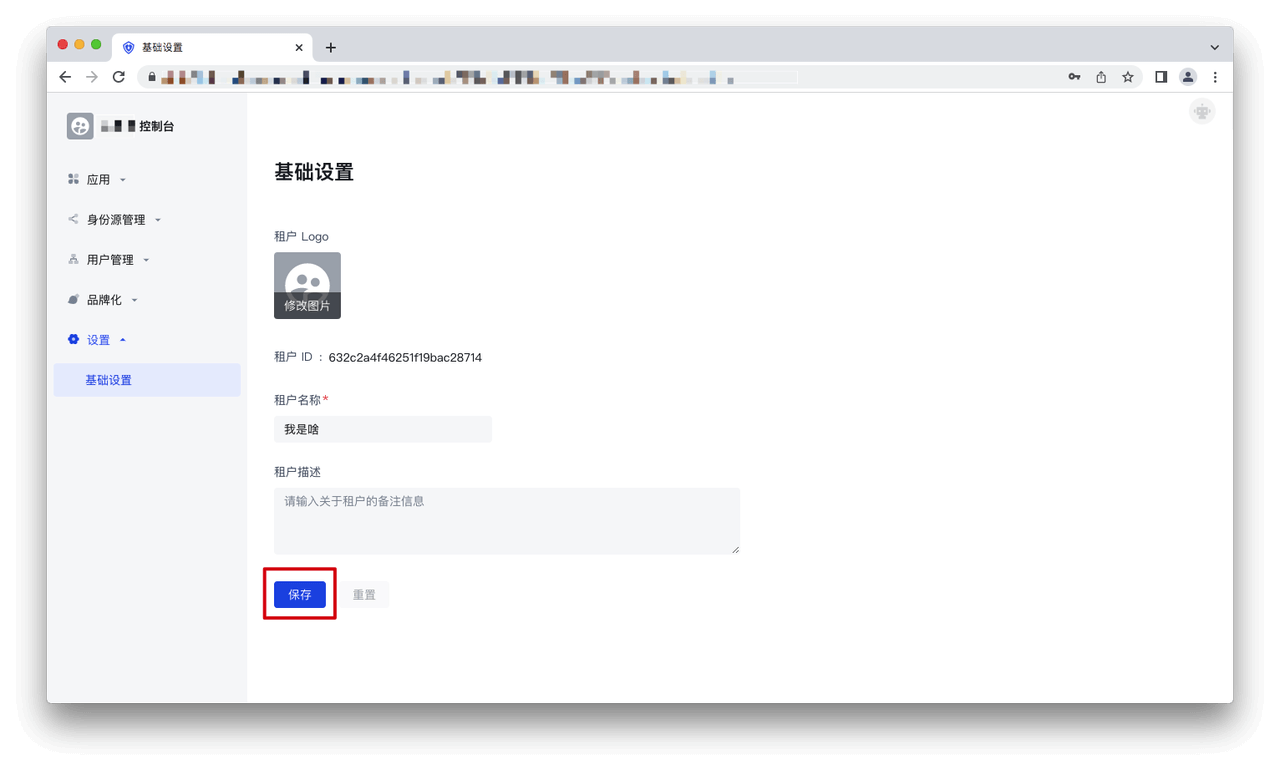
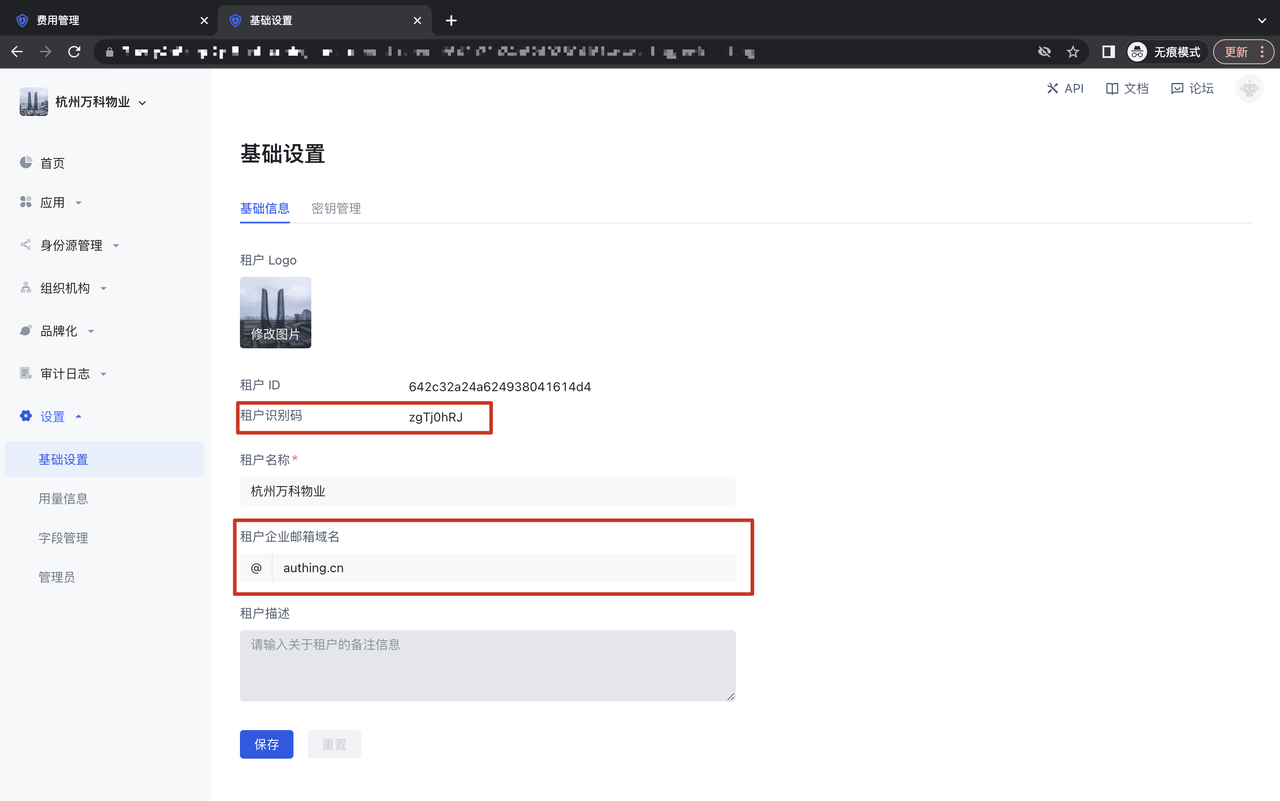
feat:integration:新增 Bytebase 文档

Changed region(s): [[0.0, 0.0, 1.0, 0.9662], [0.1562, 0.1558, 0.5938, 0.8727]]

diff --git a/docs/tenant-console/tenant-branding.md b/docs/tenant-console/tenant-branding.md
@@ -4,16 +4,16 @@
 
 ## 全局登录配置-样式配置
 
-步骤1 在租户控制台-品牌化-全局登录配置中，可以查看品牌化登录页面：
+**步骤1** 在租户控制台-品牌化-全局登录配置中，可以查看品牌化登录页面：
 
 ![](./images/tenant-branding-1.png)
 
-步骤2 预览区域左侧可以分别切换语言/设备类型：
+**步骤2** 预览区域左侧可以分别切换语言/设备类型：
 
 ![](./images/tenant-branding-2.png)
 ![](./images/tenant-branding-3.png)
 
-步骤3 预览区域右侧是配置区，可以进行品牌化配置，分为「整体样式」和「常规登录」两个 tab。在「整体样式」下：
+**步骤3** 预览区域右侧是配置区，可以进行品牌化配置，分为「整体样式」和「常规登录」两个 tab。在「整体样式」下：
 （1）设置背景
 对于网页端应用，可以在「自定义背景」设置登录框背景，在「纯色背景」模式下可以修改背景颜色，在「图片背景」模式下可以上传背景图片，下图以修改纯色背景为例，展示了修改背景颜色后的效果：
 
@@ -39,7 +39,7 @@
 
 ![](./images/tenant-branding-8.png)
 
-步骤4 预览区域右侧是配置区，可以进行品牌化配置，分为「整体样式」和「常规登录」两个 tab。在「常规登录」下：
+**步骤4** 预览区域右侧是配置区，可以进行品牌化配置，分为「整体样式」和「常规登录」两个 tab。在「常规登录」下：
 （1）可以配置「忘记密码」是否展示；
 （2）可以在「企业账号登录」配置企业身份源是否展示；
 （3）可以在「社交账号登录」配置社会化身份源是否展示。

diff --git a/docs/integration/bytebase/README.md b/docs/integration/bytebase/README.md
@@ -1,0 +1,29 @@
+---
+{
+  title: 'Bytebase 对接 - 单点登录配置 - 应用身份服务 - Authing 身份云',
+  description: 'Bytebase 是 DevOps 团队的数据库 CI/CD 工具。 它提供了一个协作工作区来帮助开发人员和 DBA 管理数据库开发生命周期。',
+  meta:
+    [
+      {
+        name: 'keywords',
+        content: 'Bytebase, DevOps, CI/CD, SSO, 应用身份服务, 单点登录配置, Authing身份云',
+      },
+    ],
+  noSidebar: true,
+  noToc: true,
+  noFeedback: true,
+  fullWidthPage: true,
+  bannerTitle: '使用 {{$localeConfig.brandName}} 登录 Bytebase',
+  steps:
+    [
+      { title: '配置 Bytebase 外部链接', subTitle: '在 Bytebase 中配置系统外部链接' },
+      {
+        title: '在 {{$localeConfig.brandName}} 中创建应用',
+        subTitle: '从 {{$localeConfig.brandName}} 应用市场中获取并创建应用',
+      },
+      { title: '配置 Bytebase SSO', subTitle: '在 Bytebase 中配置 OIDC' }
+    ],
+}
+---
+
+<IntegrationDetail/>

diff --git a/docs/integration/bytebase/1.md b/docs/integration/bytebase/1.md
@@ -1,0 +1,23 @@
+<IntegrationDetailCard :title="`在 ${$localeConfig.brandName} 中创建应用`">
+
+进入 **[控制台](https://console.authing.cn)->应用市场**搜索 Bytebase，点击获取应用。
+
+![](~@imagesZhCn/integration/bytebase/2-1.png)
+
+填写应用名称，点击下一步。
+
+![](~@imagesZhCn/integration/bytebase/2-2.png)
+
+- 复制 Issuer、Client ID、Client Secret
+
+![](~@imagesZhCn/integration/bytebase/2-3.png)
+
+将上一步在 Bytebase 中设置的外部链接填入 **Bytebase External URL** 中
+
+![](~@imagesZhCn/integration/bytebase/2-4.png)
+
+应用访问权限：「允许所有用户访问」
+
+![](~@imagesZhCn/integration/bytebase/2-5.png)
+
+</IntegrationDetailCard>

diff --git a/docs/integration/bytebase/0.md b/docs/integration/bytebase/0.md
@@ -1,0 +1,15 @@
+<IntegrationDetailCard :title="`配置 Bytebase 外部链接`">
+
+管理员账号登录 Bytebase 后台，进入 Bytebase 控制台
+
+![](~@imagesZhCn/integration/bytebase/1-1.png)
+
+点击**设置 - 工作空间 - 通用**，修改**网络 - 外部链接**地址，该地址为用户或回调能访问到的 Bytebase URL
+
+![](~@imagesZhCn/integration/bytebase/1-2.png)
+
+点击**设置 - 集成 - SSO - 创建**
+
+![](~@imagesZhCn/integration/bytebase/1-3.png)
+
+</IntegrationDetailCard>

diff --git a/docs/integration/bytebase/2.md b/docs/integration/bytebase/2.md
@@ -1,0 +1,15 @@
+<IntegrationDetailCard :title="`配置 Bytebase SSO`">
+
+集成类型选择 OIDC
+
+![](~@imagesZhCn/integration/bytebase/3-3.png)
+
+将上一步在 {{$localeConfig.brandName}} 控制台中复制的 Issuer、Client ID、Client Secret 填入对应输入框
+
+![](~@imagesZhCn/integration/bytebase/3-1.png)
+
+用户信息映射根据实际应用场景填入具体字段，常用 id、name、username、email 等
+
+![](~@imagesZhCn/integration/bytebase/3-2.png)
+
+</IntegrationDetailCard>

diff --git a/docs/tenant-console/setting.md b/docs/tenant-console/setting.md
@@ -2,6 +2,6 @@
 
 <LastUpdated/>
 
-在租户控制台-设置-基础设置中，可以查看租户基础信息，包括租户名称、租户ID等。可以修改租户 Logo、租户名称、租户描述，并点击「保存」，即可修改成功。
+在租户控制台-设置-基础设置里，可以对租户的基础信息进行修改，比如租户 Logo，租户名称、租户企业邮箱域名等，同时可以在该页面获取到租户的 ID、租户识别码等信息；
 
 ![62](./images/62.png)

diff --git a/docs/integration/README.md b/docs/integration/README.md
@@ -963,7 +963,14 @@
         image: "teamviewer_logo.svg",
         image2x: "teamviewer_logo.svg",
         category: "office",
-      }
+      },
+      {
+        key: "bytebase",
+        name: "Bytebase",
+        image: "bytebase_logo@2x.png",
+        image2x: "bytebase_logo@3x.png",
+        category: "devtools",
+      },
     ],
   categories:
     [
